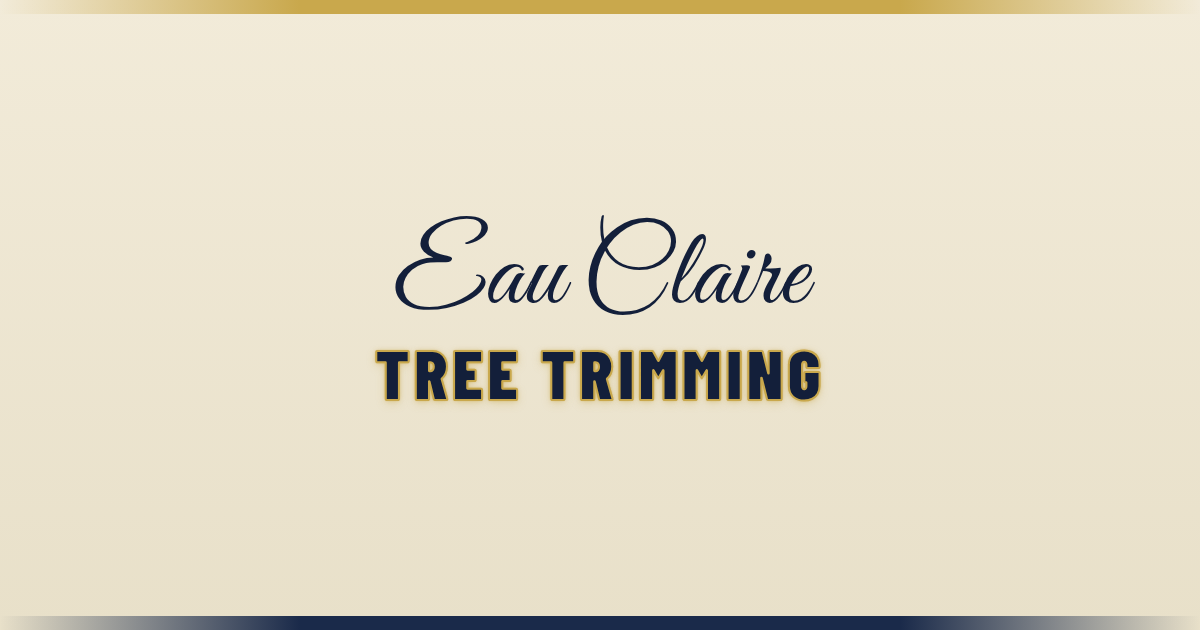
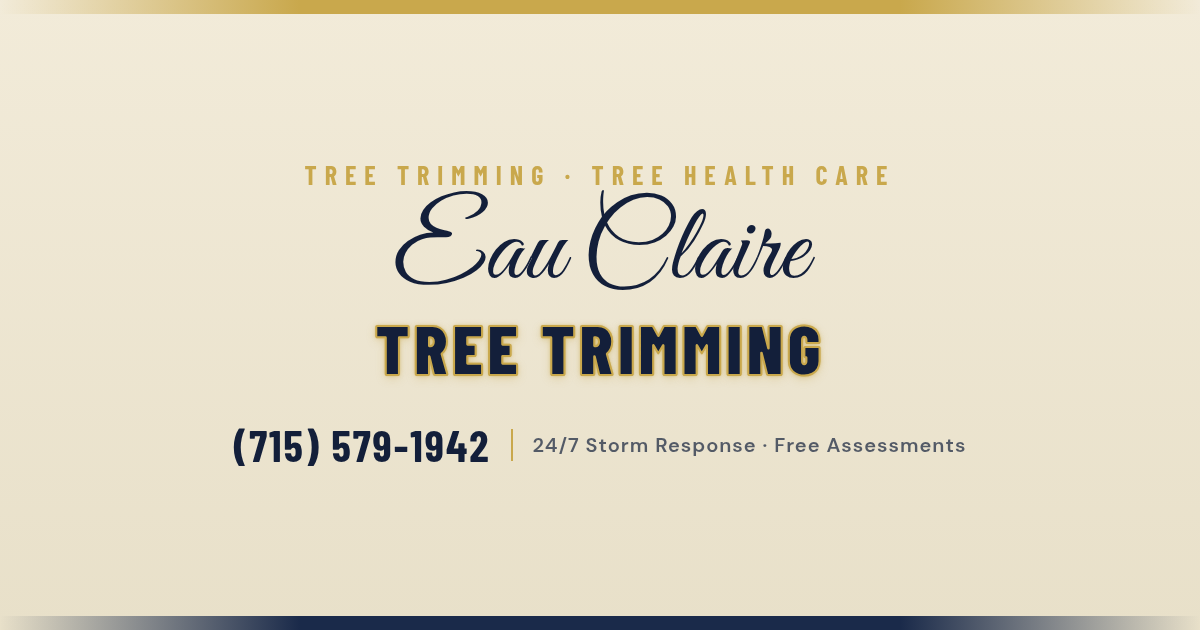
polish: regenerate OG image to match Eau Claire Tree Removal design (gold accent bars, eyebrow tagline, phone + tagline, navy TREE TRIMMING with gold outline). Updated og:image:alt descriptions on all 6 pages

Changed region(s): [[0.185, 0.2413, 0.8017, 0.754]]

diff --git a/tree-care.html b/tree-care.html
@@ -10,7 +10,7 @@
   <meta property="og:title" content="Tree Health Care in Eau Claire, WI | Eau Claire Tree Trimming | Disease & Pest">
   <meta property="og:description" content="Tree health assessments, disease treatment and pest management in Eau Claire, Chippewa Falls and Western Wisconsin. Keep your trees strong and safe. Licensed and insured. Call (715) 579-1942.">
   <meta property="og:image" content="https://eauclairetreetrim.com/images/og-image.png">
-  <meta property="og:image:alt" content="Eau Claire Tree Trimming — TREE TRIMMING in navy with gold outline, on cream background">
+  <meta property="og:image:alt" content="Eau Claire Tree Trimming — Eau Claire in script, TREE TRIMMING in navy with gold outline, on cream background">
   <meta property="og:type" content="website">
   <meta property="og:site_name" content="Eau Claire Tree Trimming">
   <meta property="og:locale" content="en_US">
@@ -18,7 +18,7 @@
   <meta name="twitter:title" content="Tree Health Care in Eau Claire, WI | Eau Claire Tree Trimming | Disease & Pest">
   <meta name="twitter:description" content="Tree health assessments, disease treatment and pest management in Eau Claire, Chippewa Falls and Western Wisconsin. Keep your trees strong and safe. Licensed and insured. Call (715) 579-1942.">
   <meta name="twitter:image" content="https://eauclairetreetrim.com/images/og-image.png">
-  <meta name="twitter:image:alt" content="Eau Claire Tree Trimming — TREE TRIMMING in navy with gold outline, on cream background">
+  <meta name="twitter:image:alt" content="Eau Claire Tree Trimming — Eau Claire in script, TREE TRIMMING in navy with gold outline, on cream background">
   <meta name="description" content="Tree health assessments, disease treatment and pest management in Eau Claire, Chippewa Falls and Western Wisconsin. Keep your trees strong and safe. Licensed and insured. Call (715) 579-1942.">
   <link rel="preconnect" href="https://fonts.googleapis.com">
   <link rel="preconnect" href="https://fonts.gstatic.com" crossorigin>

diff --git a/tree-trimming.html b/tree-trimming.html
@@ -10,7 +10,7 @@
   <meta property="og:title" content="Tree Trimming in Eau Claire, WI | Eau Claire Tree Trimming | 24/7 Service">
   <meta property="og:description" content="Professional tree trimming, pruning and crown care in Eau Claire, Chippewa Falls and Western Wisconsin. Improve tree health, shape, and safety. Licensed and insured. Call (715) 579-1942.">
   <meta property="og:image" content="https://eauclairetreetrim.com/images/og-image.png">
-  <meta property="og:image:alt" content="Eau Claire Tree Trimming — TREE TRIMMING in navy with gold outline, on cream background">
+  <meta property="og:image:alt" content="Eau Claire Tree Trimming — Eau Claire in script, TREE TRIMMING in navy with gold outline, on cream background">
   <meta property="og:type" content="website">
   <meta property="og:site_name" content="Eau Claire Tree Trimming">
   <meta property="og:locale" content="en_US">
@@ -18,7 +18,7 @@
   <meta name="twitter:title" content="Tree Trimming in Eau Claire, WI | Eau Claire Tree Trimming | 24/7 Service">
   <meta name="twitter:description" content="Professional tree trimming, pruning and crown care in Eau Claire, Chippewa Falls and Western Wisconsin. Improve tree health, shape, and safety. Licensed and insured. Call (715) 579-1942.">
   <meta name="twitter:image" content="https://eauclairetreetrim.com/images/og-image.png">
-  <meta name="twitter:image:alt" content="Eau Claire Tree Trimming — TREE TRIMMING in navy with gold outline, on cream background">
+  <meta name="twitter:image:alt" content="Eau Claire Tree Trimming — Eau Claire in script, TREE TRIMMING in navy with gold outline, on cream background">
   <meta name="description" content="Professional tree trimming, pruning and crown care in Eau Claire, Chippewa Falls and Western Wisconsin. Improve tree health, shape, and safety. Licensed and insured. Call (715) 579-1942.">
   <link rel="preconnect" href="https://fonts.googleapis.com">
   <link rel="preconnect" href="https://fonts.gstatic.com" crossorigin>

diff --git a/contact-us.html b/contact-us.html
@@ -10,7 +10,7 @@
   <meta property="og:title" content="Contact Eau Claire Tree Trimming | Call (715) 579-1942 | Free Estimate 24/7">
   <meta property="og:description" content="Call Eau Claire Tree Trimming at (715) 579-1942 for a free tree trimming or care estimate. We answer personally — no call center. 24/7 emergency service throughout Western Wisconsin.">
   <meta property="og:image" content="https://eauclairetreetrim.com/images/og-image.png">
-  <meta property="og:image:alt" content="Eau Claire Tree Trimming — TREE TRIMMING in navy with gold outline, on cream background">
+  <meta property="og:image:alt" content="Eau Claire Tree Trimming — Eau Claire in script, TREE TRIMMING in navy with gold outline, on cream background">
   <meta property="og:type" content="website">
   <meta property="og:site_name" content="Eau Claire Tree Trimming">
   <meta property="og:locale" content="en_US">
@@ -18,7 +18,7 @@
   <meta name="twitter:title" content="Contact Eau Claire Tree Trimming | Call (715) 579-1942 | Free Estimate 24/7">
   <meta name="twitter:description" content="Call Eau Claire Tree Trimming at (715) 579-1942 for a free tree trimming or care estimate. We answer personally — no call center. 24/7 emergency service throughout Western Wisconsin.">
   <meta name="twitter:image" content="https://eauclairetreetrim.com/images/og-image.png">
-  <meta name="twitter:image:alt" content="Eau Claire Tree Trimming — TREE TRIMMING in navy with gold outline, on cream background">
+  <meta name="twitter:image:alt" content="Eau Claire Tree Trimming — Eau Claire in script, TREE TRIMMING in navy with gold outline, on cream background">
   <meta name="description" content="Call Eau Claire Tree Trimming at (715) 579-1942 for a free tree trimming or care estimate. We answer personally — no call center. 24/7 emergency service throughout Western Wisconsin.">
   <link rel="preconnect" href="https://fonts.googleapis.com">
   <link rel="preconnect" href="https://fonts.gstatic.com" crossorigin>

diff --git a/chippewa-falls.html b/chippewa-falls.html
@@ -10,7 +10,7 @@
   <meta property="og:title" content="Tree Trimming in Chippewa Falls, WI | Eau Claire Tree Trimming | 24/7 Service">
   <meta property="og:description" content="Tree trimming and care in Chippewa Falls, WI — Downtown, Lake Wissota Area, Northside, Southside and Chippewa River Corridor. 24/7 emergency storm response. Call (715) 579-1942.">
   <meta property="og:image" content="https://eauclairetreetrim.com/images/og-image.png">
-  <meta property="og:image:alt" content="Eau Claire Tree Trimming — TREE TRIMMING in navy with gold outline, on cream background">
+  <meta property="og:image:alt" content="Eau Claire Tree Trimming — Eau Claire in script, TREE TRIMMING in navy with gold outline, on cream background">
   <meta property="og:type" content="website">
   <meta property="og:site_name" content="Eau Claire Tree Trimming">
   <meta property="og:locale" content="en_US">
@@ -18,7 +18,7 @@
   <meta name="twitter:title" content="Tree Trimming in Chippewa Falls, WI | Eau Claire Tree Trimming | 24/7 Service">
   <meta name="twitter:description" content="Tree trimming and care in Chippewa Falls, WI — Downtown, Lake Wissota Area, Northside, Southside and Chippewa River Corridor. 24/7 emergency storm response. Call (715) 579-1942.">
   <meta name="twitter:image" content="https://eauclairetreetrim.com/images/og-image.png">
-  <meta name="twitter:image:alt" content="Eau Claire Tree Trimming — TREE TRIMMING in navy with gold outline, on cream background">
+  <meta name="twitter:image:alt" content="Eau Claire Tree Trimming — Eau Claire in script, TREE TRIMMING in navy with gold outline, on cream background">
   <meta name="description" content="Tree trimming and care in Chippewa Falls, WI — Downtown, Lake Wissota Area, Northside, Southside and Chippewa River Corridor. 24/7 emergency storm response. Call (715) 579-1942.">
   <link rel="preconnect" href="https://fonts.googleapis.com">
   <link rel="preconnect" href="https://fonts.gstatic.com" crossorigin>

diff --git a/index.html b/index.html
@@ -10,7 +10,7 @@
   <meta property="og:title" content="Eau Claire Tree Trimming | Tree Trimming & Care | Western Wisconsin">
   <meta property="og:description" content="Expert tree trimming, pruning & tree health care in Eau Claire, Chippewa Falls and Western Wisconsin. 24/7 emergency storm response. Licensed and insured. Call (715) 579-1942.">
   <meta property="og:image" content="https://eauclairetreetrim.com/images/og-image.png">
-  <meta property="og:image:alt" content="Eau Claire Tree Trimming — TREE TRIMMING in navy with gold outline, on cream background">
+  <meta property="og:image:alt" content="Eau Claire Tree Trimming — Eau Claire in script, TREE TRIMMING in navy with gold outline, on cream background">
   <meta property="og:type" content="website">
   <meta property="og:site_name" content="Eau Claire Tree Trimming">
   <meta property="og:locale" content="en_US">
@@ -18,7 +18,7 @@
   <meta name="twitter:title" content="Eau Claire Tree Trimming | Tree Trimming & Care | Western Wisconsin">
   <meta name="twitter:description" content="Expert tree trimming, pruning & tree health care in Eau Claire, Chippewa Falls and Western Wisconsin. 24/7 emergency storm response. Licensed and insured. Call (715) 579-1942.">
   <meta name="twitter:image" content="https://eauclairetreetrim.com/images/og-image.png">
-  <meta name="twitter:image:alt" content="Eau Claire Tree Trimming — TREE TRIMMING in navy with gold outline, on cream background">
+  <meta name="twitter:image:alt" content="Eau Claire Tree Trimming — Eau Claire in script, TREE TRIMMING in navy with gold outline, on cream background">
   <meta name="description" content="Expert tree trimming, pruning & tree health care in Eau Claire, Chippewa Falls and Western Wisconsin. 24/7 emergency storm response. Licensed and insured. Call (715) 579-1942.">
   <link rel="preconnect" href="https://fonts.googleapis.com">
   <link rel="preconnect" href="https://fonts.gstatic.com" crossorigin>

diff --git a/eau-claire.html b/eau-claire.html
@@ -10,7 +10,7 @@
   <meta property="og:title" content="Tree Trimming in Eau Claire, WI | Eau Claire Tree Trimming | Same-Day Service">
   <meta property="og:description" content="Tree trimming and care in Eau Claire, WI — Downtown, Southside, Northside, Putnam Heights and surrounding areas. 24/7 emergency storm response. Call (715) 579-1942.">
   <meta property="og:image" content="https://eauclairetreetrim.com/images/og-image.png">
-  <meta property="og:image:alt" content="Eau Claire Tree Trimming — TREE TRIMMING in navy with gold outline, on cream background">
+  <meta property="og:image:alt" content="Eau Claire Tree Trimming — Eau Claire in script, TREE TRIMMING in navy with gold outline, on cream background">
   <meta property="og:type" content="website">
   <meta property="og:site_name" content="Eau Claire Tree Trimming">
   <meta property="og:locale" content="en_US">
@@ -18,7 +18,7 @@
   <meta name="twitter:title" content="Tree Trimming in Eau Claire, WI | Eau Claire Tree Trimming | Same-Day Service">
   <meta name="twitter:description" content="Tree trimming and care in Eau Claire, WI — Downtown, Southside, Northside, Putnam Heights and surrounding areas. 24/7 emergency storm response. Call (715) 579-1942.">
   <meta name="twitter:image" content="https://eauclairetreetrim.com/images/og-image.png">
-  <meta name="twitter:image:alt" content="Eau Claire Tree Trimming — TREE TRIMMING in navy with gold outline, on cream background">
+  <meta name="twitter:image:alt" content="Eau Claire Tree Trimming — Eau Claire in script, TREE TRIMMING in navy with gold outline, on cream background">
   <meta name="description" content="Tree trimming and care in Eau Claire, WI — Downtown, Southside, Northside, Putnam Heights and surrounding areas. 24/7 emergency storm response. Call (715) 579-1942.">
   <link rel="preconnect" href="https://fonts.googleapis.com">
   <link rel="preconnect" href="https://fonts.gstatic.com" crossorigin>
